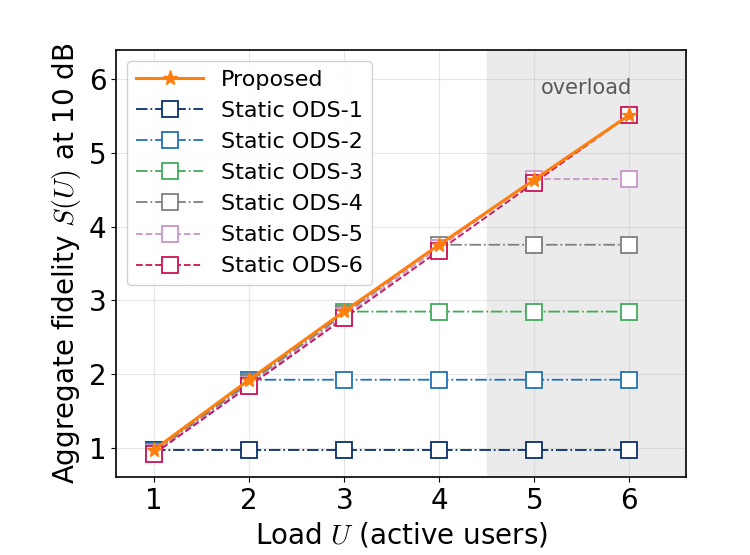
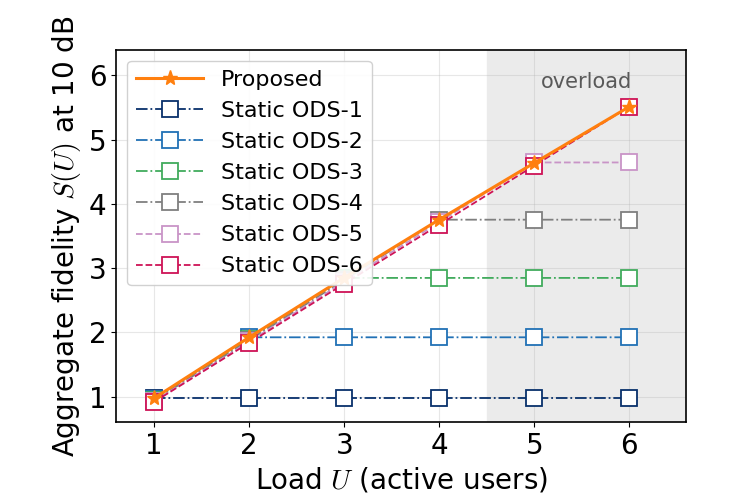
Figs. 2 and 3 on one 7.5 x 5.0 in canvas

diff --git a/Code/pca_fig.py b/Code/pca_fig.py
@@ -27,10 +27,9 @@ LOADS = [1, 2, 3, 4, 5, 6]
 K = 4
 plt.rcParams.update({"font.size": 20, "axes.linewidth": 1.2, "lines.markersize": 11, "mathtext.fontset": "cm",
                      "pdf.fonttype": 42})                     # TrueType, no Type 3 fonts in the PDFs
-FIGSIZE = (7.5, 5.55)
-AX_RECT = [0.155, 0.14, 0.76, 0.7703]
-FIGSIZE_LOAD = (7.5, 4.6)                                    # 2026-11-04: Fig. 3 on a lower canvas, same width and fonts
-AX_RECT_LOAD = [0.155, 0.169, 0.76, 0.723]                   # margins of the 5.55-inch canvas kept in inches
+FIG_H = 5.0                                                  # 2026-11-04: one canvas for Figs. 2 and 3 (same printed size)
+FIGSIZE = (7.5, FIG_H)
+AX_RECT = [0.155, 0.777 / FIG_H, 0.76, (FIG_H - 0.777 - 0.498) / FIG_H]   # 0.777 in below, 0.498 in above the axes
 PROP = dict(color="#ff7f0e", lw=2.2, ls="-", marker="*", zorder=4)
 LEG = 16
 KCOL = {1: "#08306b", 2: "#2171b5", 3: "#41ab5d", 4: "#7f7f7f", 5: "#c994c7", 6: "#ce1256"}
@@ -81,8 +80,8 @@ def fig_snr():
 
 
 def fig_load(snrs=(0, 10, 20)):
-    fig = plt.figure(figsize=FIGSIZE_LOAD)
-    ax = fig.add_axes(AX_RECT_LOAD)
+    fig = plt.figure(figsize=FIGSIZE)
+    ax = fig.add_axes(AX_RECT)
     ax.axvspan(K + 0.5, 6.6, color="0.92", zorder=0)
     scol = {s: c for s, c in zip(snrs, ["#4d4d4d", "#2166ac", "#b2182b"])}
     for s in snrs:
